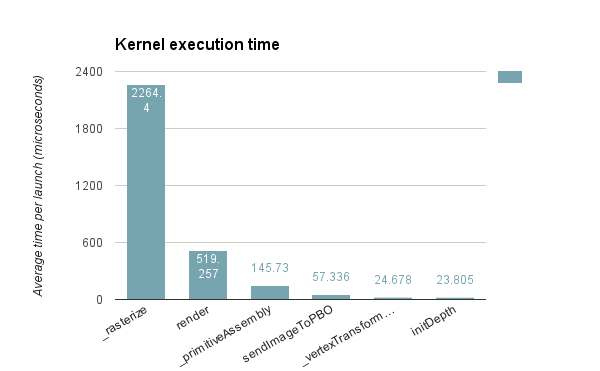
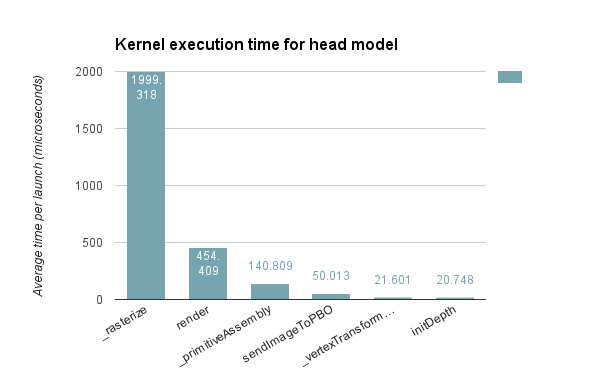
Update README

diff --git a/README.md b/README.md
@@ -33,9 +33,10 @@ CUDA Rasterizer
 
 # Rasterizer
 
-The rasterizer implements 
 
-![](renders/videos/centaur.gif)
+Diffuse        | Normal | Depth |
+:-------------------------:|:-------------------------:
+![](renders/videos/centaur.gif)|![](renders/videos/centaur_normal.gif)|![](renders/videos/centaur_depth.gif)
 
 # Features
 
@@ -61,32 +62,28 @@ The following header flags can be found in `main.cpp`:
 - `#define USE_HEAD_MODEL`: Uncomment if using the `head.gltf` model
 - `#define USE_ENGINE_MODEL`: Uncomment if using the `2_cylinder_engine.gltf` model
 
-# Performance analysis
+# Scenes
 
-The bottleneck of the rasterizer happens in the `_rasterize` kernel. While all triangles are processed in parallel, we still need to use a for loop through the triangle bounding boxes. Each `_rasterize` kernel is bounded by O(n<sup>2</sup>).
-
-For testing, I am using the following scenes:
-
-|   | Triangle count | Source | 
-|---|---|---|
-| Cow | 5804 | [gltfs](gltfs/cow/cow.gltf) |
+|   |   | Triangle count | Source | 
+|---|---|---|---|
+| Cow | ![](render\cow.png) | 5804 | [gltfs](gltfs/cow/cow.gltf) |
 | Head | 17684 | [gltfs](gltfs/head/head.gltf) |
 |2 cylinder engine| 121496 | [gltfs](gltfs/2_cylinder_engine/2_cylinder_engine.gltf) |
-
-
-The following graph shows the execution time in microseconds:
-
-![](renders/analysis/head_20s_kernel_time)
 
 ## UV Texture Mapping
 ### 1. Perspective correct
 
+An attribute of a fragment inside a triangle can be computed by using barycentric interpolation of the triangle vertices. A naive approach for this interpolation is directly interpolate the attribute in raster space after the vertices have been projected onto the screen. However, since the projected vertices don't preserve the correct perspective, or depth, of the fragment computed, we have to perform [perspective correction](https://en.wikipedia.org/wiki/Perspective_correction). I implemented perspective correct UV texture mapping and depth interpolation using the explanation at [scratchapixel](http://www.scratchapixel.com/lessons/3d-basic-rendering/rasterization-practical-implementation/perspective-correct-interpolation-vertex-attributes).
+
+Incorrect       | Correct
+:-------------------------:|:-------------------------:
+![](renders/checkerboard_incorrect_perspective.png)|![](renders/checkerboard_incorrect_perspective.png)
 
 ### 2. Bilinear filtering
 
 Toggle with `#define BILINEAR_FILTERING`
 
-Bilinear filtering is an antialiasing technique that averages the neighboring texels of a texel to create smooth effect when the texture is zoomed in or zoomed out.
+[Bilinear filtering](https://en.wikipedia.org/wiki/Bilinear_filtering) is an antialiasing technique that averages the nearest four texels of the lookup texel to create smooth effect when the texture is zoomed in or zoomed out.
 
 Below shows the comparison with bilinear filtering on (left) and off (right). Bilinear filtering makes the wavy curve on the Cesium logo appear to be smoother and not pixelated.
 
@@ -94,14 +91,51 @@ Bilinear **ON**        | Bilinear **OFF**
 :-------------------------:|:-------------------------:
 ![](renders/cesiumtruck_bilinear.png)|![](renders/cesiumtruck_no_bilinear.png)
 
+At first, I expected bilinear filtering might have a performace hit on the `_rasterize` function because of the nearest texels lookup. However, after profiling, it appears to only affect rasterization minimally. See the [performance analysis](# Performance analysis) section.
+
+
 ## Order independent transparency using k-buffer
 
 Toggle with `#define USE_K_BUFFER`
 
 k-buffer is a generalized version of the traditional z-buffer for depth. Instead of storing a single depth as in the z-buffer, k-buffer stores a list of depths for overlapping fragments. This information allows us to compute the alpha blending color of these multiple overlapping fragments in screenspace.
 
-[insert photo]
+k-buffer **ON**        | k-buffer **OFF**
+:-------------------------:|:-------------------------:
+![](renders/videos/truck.gif)|![](renders/truck_kbuffer.gif)
 
+# Performance analysis
+
+ I profiled using NSight Performance Analysis tool with the following parameters:
+
+| Parameters| Value |
+|---|---|
+| Primitves | 17684 |
+| Runtime | 20,000 ms |
+| Resolution | 800x800
+| Kernel launches | 1091 |
+
+The following graph shows the execution time (_microseconds_) for various kernels:
+
+![](renders/videos/head.gif)
+
+![](renders/analysis/head_20s_kernel_time)
+
+The bottleneck happens in the `_rasterize` kernel because we have to loop through each pixel in every triangle's bounding box. Therefore, each `_rasterize` kernel is bounded by O(n<sup>2</sup>), where n is the size of the triangle's bounding box in screen space. This means that a large triangle with a large bounding box will have a performance hit. To compare, I profiled a scene with the head model where the camera is located at the origin, versus a scene where the camera is zoomed in.
+
+Camera at origin        | Camera zoomed in
+:-------------------------:|:-------------------------:
+![](renders/head.png)|![](renders/head_zoomed_in.png)
+
+![](renders/analysis/head_20s_zooms)
+
+While a rasterizer's rendering performance is bounded by the number of fragments we have to compute, a pathtracer is bounded by the number of triangles. In that sense, rasterizer can scale up really well with high number of triangles.
+
+Similarly, I profiled the execution time (_microseconds_) with the following features on and off:
+
+![](renders/analysis/head_20s_kernel_time_with_features)
+
+As expected, bilinear filtering and k-buffer occupy more device time. However, the performace decrease isn't significant enough. For the k-buffer, instead of using a linked list of depth buffers, I only created an additional buffer of accumulated alpha colors of overlapping fragments. This optimized for having to look several depth buffer, which could make memory read and write from global buffer slower. 
 
 
 ### Credits
